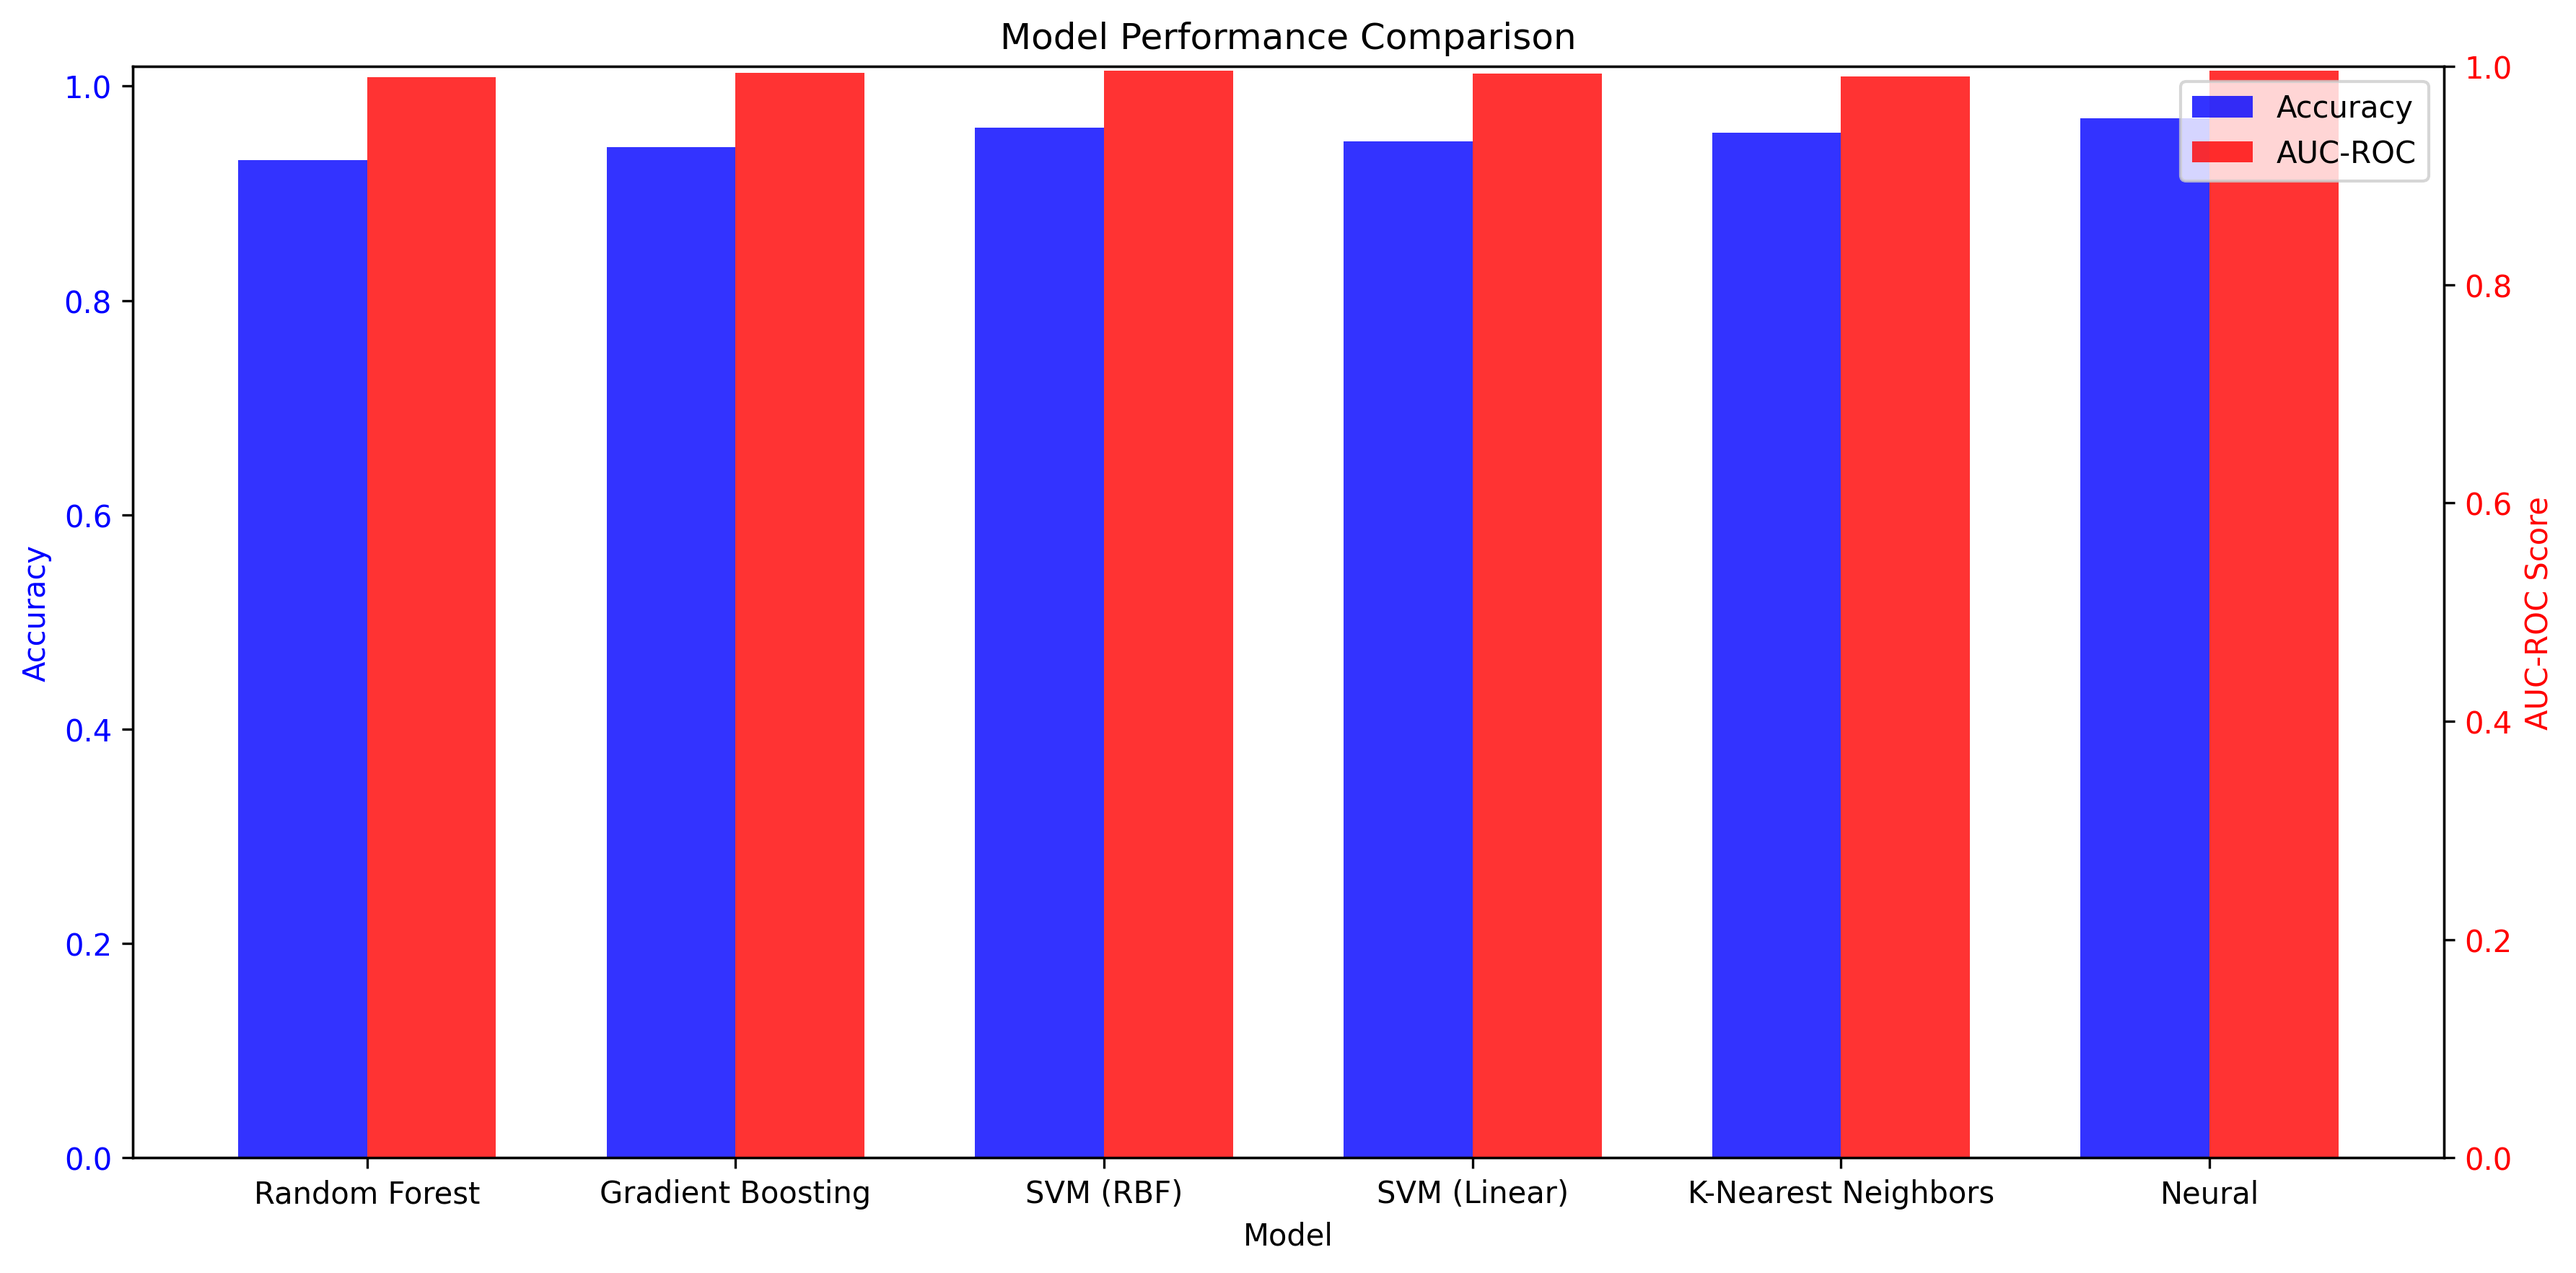
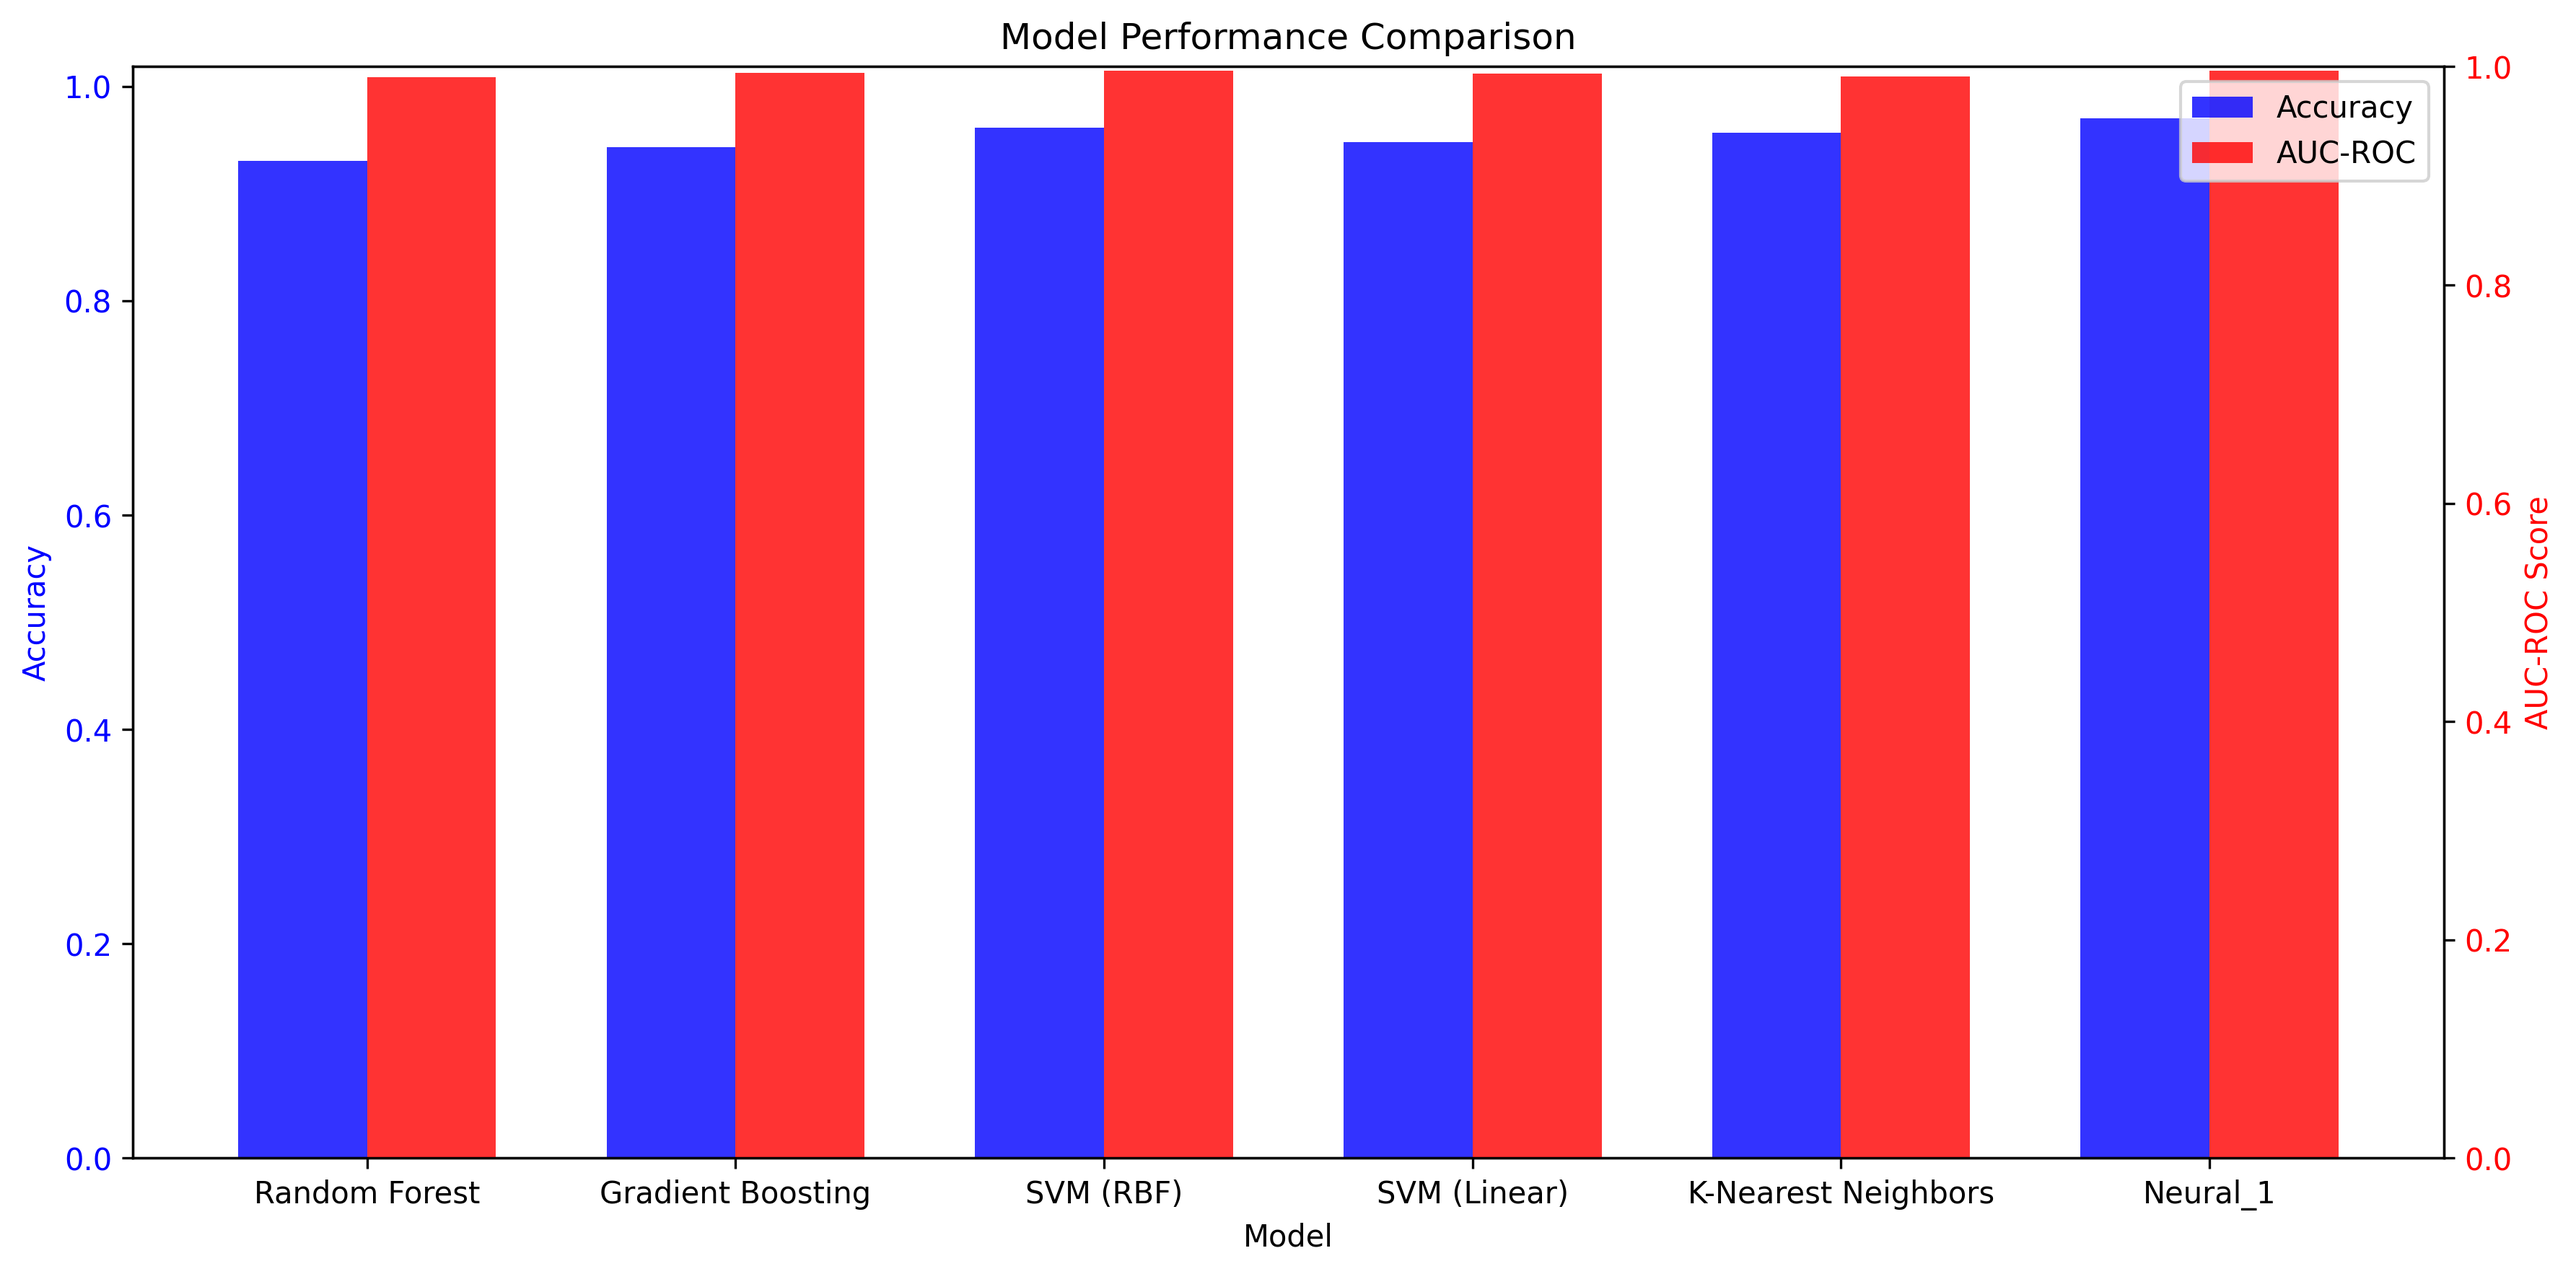
add capability for multiple neural nets, and add functions to conv2d max pooling layer to provide data for model.summary

diff --git a/brain_tumour_classification.py b/brain_tumour_classification.py
@@ -58,7 +58,7 @@ model_files = {
     "SVM (Linear)": "SVM_Linear.pkl",
     "Gradient Boosting": "Gradient_Boosting.pkl",
     "K-Nearest Neighbors": "K-Nearest_Neighbors.pkl",
-    "Neural": "Neural.weights.h5",
+    "Neural_1": "Neural_1.weights.h5",
 }
 
 
@@ -86,7 +86,8 @@ class BrainTumorClassifier:
         self.valid_data = valid_data
         self.label_encoder = LabelEncoder()
         self.scaler = StandardScaler()
-        self.models = {}
+        self.conventional_models = {}
+        self.neural_networks = {}
         self.results = {}
         self.classes = classes
         self.cuda = cuda
@@ -142,15 +143,18 @@ class BrainTumorClassifier:
 
     def initialize_models(self, random_state):
         self.initialize_conventional_models(random_state)
-        self.initialize_neural_network()
-        print(f"\nInitialized {len(self.models)} models:")
-        for name in self.models.keys():
+        self.initialize_neural_networks()
+        print(
+            f"\nInitialized {len(self.conventional_models) + len(self.neural_networks)} models:"
+        )
+        for name in self.conventional_models.keys():
             print(f"  - {name}")
-        print("  - Neural")
+        for name in self.neural_networks.keys():
+            print(f"  - {name}")
 
     def initialize_conventional_models(self, random_state):
         """Initialize multiple classification models"""
-        self.models = {
+        self.conventional_models = {
             "Random Forest": RandomForestClassifier(
                 n_estimators=200,
                 max_depth=20,
@@ -184,12 +188,13 @@ class BrainTumorClassifier:
             ),
         }
 
-    def initialize_neural_network(self):
+    def initialize_neural_networks(self):
         """Initialize neural network model"""
         model = TumourNet()
         dummy_input = np.zeros((1, *self.image_shape), dtype=np.float32)
         _ = model(dummy_input, training=True)
-        self.neural = TumourNetWrapper(model)
+        self.neural_networks["Neural_1"] = TumourNetWrapper(model)
+        model.summary()
 
     def train_models(self, X_train, y_train):
         """Train all models and evaluate"""
@@ -200,11 +205,11 @@ class BrainTumorClassifier:
         y_train_neural = self.label_encoder.transform(self.train_data[1])
 
         self.train_conventional_models(X_train, y_train)
-        self.train_neural_network(self.train_data[0], y_train_neural)
+        self.train_neural_networks(self.train_data[0], y_train_neural)
 
     def train_conventional_models(self, X_train, y_train):
         """Train all conventional models"""
-        for name, model in self.models.items():
+        for name, model in self.conventional_models.items():
             train_start = time.time()
             print(f"\nTraining {name}...")
             model.fit(X_train, y_train)
@@ -213,10 +218,12 @@ class BrainTumorClassifier:
             self.results[name]["training_time"] = train_end - train_start
             print(self.results[name]["training_time"])
 
-    def train_neural_network(self, X_train, y_train):
+    def train_neural_networks(self, X_train, y_train):
         """Train neural network"""
-        self.neural.compile()
-        self.neural.fit(X_train, y_train, epochs=100)
+        for name, model in self.neural_networks.items():
+            print(f"\nTraining {name}...")
+            model.compile()
+            model.fit(X_train, y_train, epochs=100)
 
     def evaluate_models(self, X_val, y_val):
         print("\n" + "=" * 60)
@@ -226,7 +233,7 @@ class BrainTumorClassifier:
         y_val_neural = self.label_encoder.fit_transform(self.valid_data[1])
 
         self.evaluate_conventional_models(X_val, y_val)
-        self.evaluate_neural_net(self.valid_data[0], y_val_neural)
+        self.evaluate_neural_networks(self.valid_data[0], y_val_neural)
         return self.determine_best_model()
 
     def evaluate_model(self, name, model, X_val, y_val):
@@ -275,12 +282,13 @@ class BrainTumorClassifier:
 
     def evaluate_conventional_models(self, X_val, y_val):
         """Evaluate conventional models"""
-        for name, model in self.models.items():
+        for name, model in self.conventional_models.items():
             self.evaluate_model(name, model, X_val, y_val)
 
-    def evaluate_neural_net(self, X_val, y_val):
+    def evaluate_neural_networks(self, X_val, y_val):
         """Evaluate neural network"""
-        self.evaluate_model("Neural", self.neural, X_val, y_val)
+        for name, model in self.neural_networks.items():
+            self.evaluate_model(name, model, X_val, y_val)
 
     def plot_results(self, save_dir="results"):
         """Create visualizations of model performance"""
@@ -375,14 +383,15 @@ class BrainTumorClassifier:
 
         joblib.dump(model_data, filename)
 
-    def save_neural_network(self, name):
+    def save_neural_network(self, name, model):
         filename = model_files[name]
-        self.neural.save_weights(filename)
+        model.save_weights(filename)
 
     def save_models(self):
-        for name, model in self.models.items():
+        for name, model in self.conventional_models.items():
             self.save_conventional_model(name, model)
-        self.save_neural_network("Neural")
+        for name, model in self.neural_networks.items():
+            self.save_neural_network(name, model)
 
     def determine_best_model(self):
         """Save the best performing model"""
@@ -398,14 +407,17 @@ class BrainTumorClassifier:
         return best_name
 
     def load_conventional_models(self):
-        for name, _ in self.models.items():
+        for name, _ in self.conventional_models.items():
             model_data = joblib.load(model_files[name])
-            self.models[name] = model_data["model"]
+            self.conventional_models[name] = model_data["model"]
+
+    def load_neural_networks(self):
+        for name, model in self.neural_networks.items():
+            model.load_weights(model_files[name])
 
     def load_models(self):
         self.load_conventional_models()
-        self.initialize_neural_network()
-        self.neural.load_weights(model_files["Neural"])
+        self.load_neural_networks()
 
 
 def main():

diff --git a/neural_nets.py b/neural_nets.py
@@ -10,6 +10,10 @@ class Conv2dMaxPoolingLayer(Model):
         pool_size: tuple[int, int] = (2, 2),
     ) -> None:
         super().__init__()
+        self.filters = filters
+        self.kernel_size = kernel_size
+        self.pool_size = pool_size
+
         self.conv = layers.Conv2D(
             filters=filters,
             kernel_size=kernel_size,
@@ -18,12 +22,36 @@ class Conv2dMaxPoolingLayer(Model):
         self.max = layers.MaxPooling2D(pool_size=pool_size)
         self.dropout = layers.Dropout(0.25)
 
+    def build(self, input_shape):
+        # Build the sub-layers
+        self.conv.build(input_shape)
+        conv_output_shape = self.conv.compute_output_shape(input_shape)
+        self.max.build(conv_output_shape)
+        super().build(input_shape)
+
     def call(self, x, training=None):
         x = self.conv(x)
         x = self.max(x)
         if training:
             x = self.dropout(x, training=training)
         return x
+
+    def compute_output_shape(self, input_shape):
+        # Chain the output shape computations
+        shape = self.conv.compute_output_shape(input_shape)
+        shape = self.max.compute_output_shape(shape)
+        return shape
+
+    def get_config(self):
+        config = super().get_config()
+        config.update(
+            {
+                "filters": self.filters,
+                "kernel_size": self.kernel_size,
+                "pool_size": self.pool_size,
+            }
+        )
+        return config
 
 
 class TumourNet(Model):
@@ -105,5 +133,5 @@ class TumourNetWrapper:
         if isinstance(model, Model):
             self.model: Model = model
 
-    def load_weights(self, filename):
-        self.model.load_weights(filename)
+    def load_weights(self, filepath):
+        self.model.load_weights(filepath)
